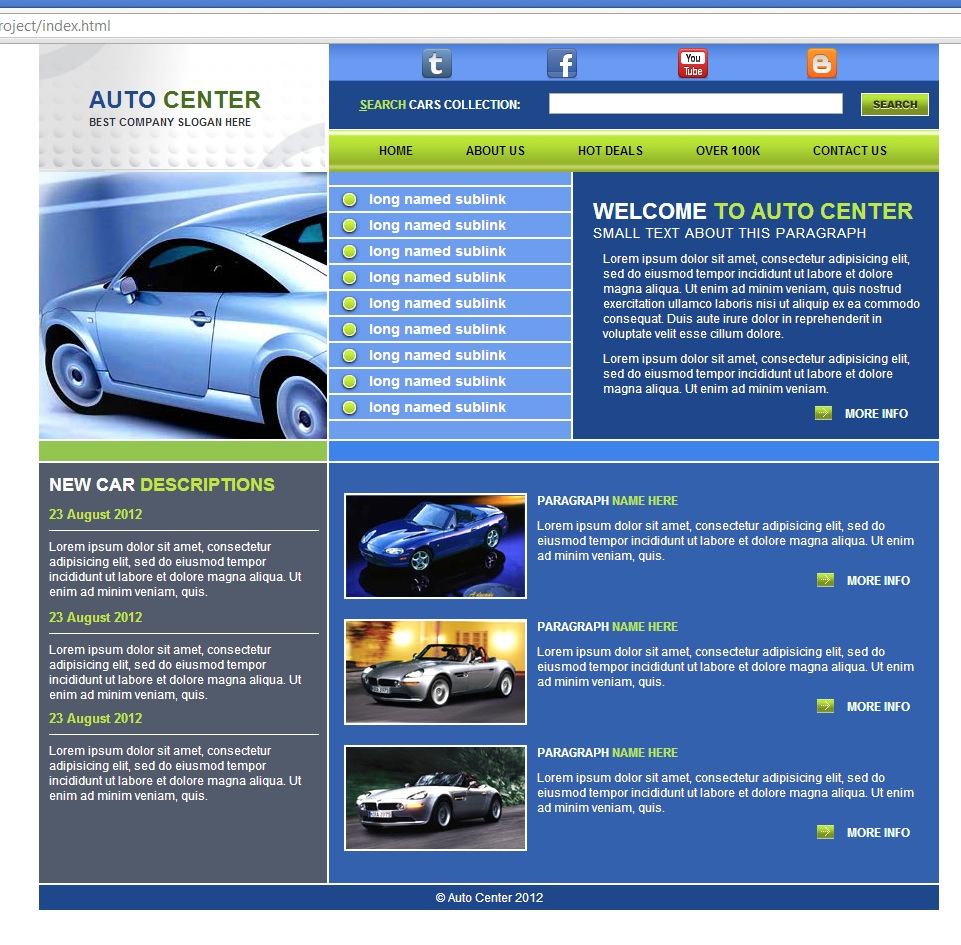
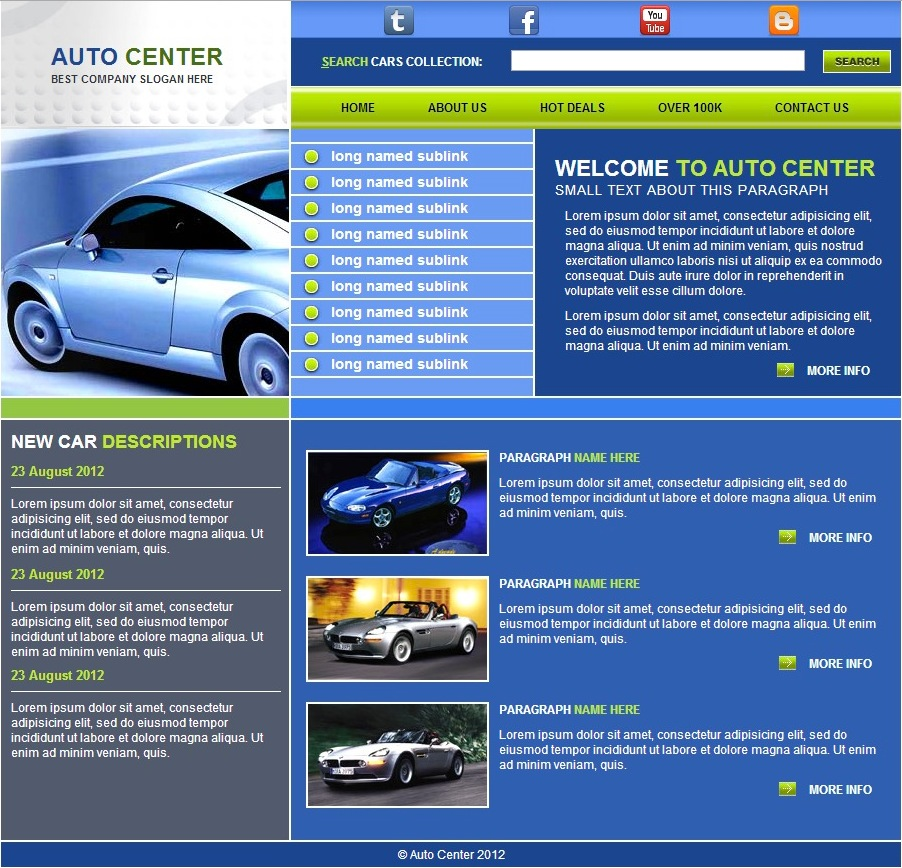
added final

diff --git a/projects/cmrockwell-final/css/main.css b/projects/cmrockwell-final/css/main.css
@@ -6,52 +6,66 @@ a{text-decoration:none;}
 
 /* wrapper */
 #wrapper{position: relative; margin: 0 auto; width: 900px; background-color: #FFF; }
+#over {position: absolute; top: 0; left: 0; opacity: 0.5; width: 900px; z-index: 10; visibility: hidden; }
 
 /* header background: #fff url(image.gif) no-repeat top left*/
 #header{ height: 126px; text-transform:uppercase; position: relative; }
 #logo_div { height: 126px; width: 289px; background: #fff url('../images/upper-white.jpg') no-repeat top left; position:absolute; left:0; top:0; }
 #header-right {position:absolute; top:0; right:0; width: 611px; }
-#logo_div h1 { color:#00C6FF; margin: 40px 40px 8px 40px; font-size: 2em;}
-#logo_div h1 span { color:#00C6FF; }
-#logo_div p { margin-left: 40px; }
+#logo_div h1 { color: #214990; margin: 50px 40px 6px 51px; font-size: 2em;}
+#logo_div h1 span { color: #49701B; }
+#logo_div p { margin-left: 51px;  letter-spacing: -1px;}
 #social-links { height: 36px; background-color: #6C9DEf; position: relative; background-repeat: no-repeat; }
 .icon {background-image: url('../images/iconpack.png'); height: 34px; width: 34px; position:absolute; border: none; }
 #twitter {background-position: -341px -172px; left: 92px}
 #facebook {background-position: -501px -13px; left: 218px;}
-#youtube {background-position: -182px -115px; left: 352px;}
-#blogger {background-position: -11px -62px; left: 486px; }
+#youtube {background-position: -182px -115px; left: 350px;}
+#blogger {background-position: -11px -62px; left: 478px; }
 
-#search {height: 47px; background-color: #1F478C; line-height: 47px; padding-left: 26px; }
+#search {height: 50px; background-color: #1F478C; line-height: 50px; padding-left: 30px; letter-spacing: -1px; }
 .underline {text-decoration:underline; }
 .white {color: white; }
-#search label {color: #C0E741; margin-right: 24px; font-weight: bold; }
-#search input.text {width: 292px; margin-top: 12px;}
+#search label {color: #C0E741; margin-right: 32px; font-weight: bold; vertical-align: top;}
+#search input.text {width: 292px; margin-top: 12px; padding-top: 0;}
 #search input#searchBtn { background: #fff url('../images/search.jpg') no-repeat top left; width: 69px; height: 24px; 
-							border: solid #1F478C 1px; background-position: 0px 0px; padding-top: 2px; margin-left: 10px}
+							border: solid #1F478C 1px; background-position: 0px 0px; padding-top: 2px; margin-left: 14px}
 
-#nav{  background: #fff url('../images/nav2.jpg') repeat-x top left; text-align: center; border: none; overflow: auto;}
+#nav{  background: #fff url('../images/nav2.jpg') repeat-x top left; text-align: center; border: none; overflow: hidden;
+		 width: 608px; margin-left: 2px; }
 #nav li{float:left; list-style:none;}
-#nav li a, #nav li span {font-size:1.1em; line-height: 43px; color: #fff; width: 110px; display:block; font-weight: bold;} 
+#nav li a, #nav li span {font-size:1.0em; line-height: 41px; margin-left: 50px; color: #000; display:block; font-weight: bold;} 
 #nav li a:hover{text-decoration:underline; }
 
 
-#content { height: 706px; }
+#content { height: 713px; }
 #middle { height: 267px; width: 289px; position: relative; }
 #middle #car { height: 267px; width: 289px;  background: #fff url('../images/car.jpg') no-repeat top left; border: solid white 1px;}
-#middle #sublinks {  height: 267px; width: 240px; position:absolute; top:0; left: 289px; background-color: #6C9DEf; }
-#sublinks ul { position: absolute; top: 12px; width: 100%; }
-#sublinks li { 	border: solid white 1px; background-image: url('../images/dot1.jpg'); 
-				background-repeat:no-repeat; background-position: 8px 5px; padding-left: 30px; 
-				list-style-position: inside; list-style: none; height: 25px; line-height: 25px; }
-#middle #welcome {  height: 267px; width: 370px; position:absolute; top:0; left: 529px; background-color: #1F478C; color: #fff; }
+#middle #sublinks {  height: 267px; width: 242px; position:absolute; top:0; left: 289px; background-color: #6C9DEf;
+						border: solid white 2px; }
+#sublinks ul { position: absolute; top: 12px; width: 100%; border-bottom: solid white 2px;}
+#sublinks li { 	border-top: solid white 2px;
+				background-image: url('../images/dot1.jpg'); 
+				background-repeat:no-repeat; background-position: 12px 7px; padding-left: 41px; 
+				list-style-position: inside; list-style: none; height: 25px; line-height: 25px; font-size: 1.2em; }
+#sublinks a { color: #fff; font-weight: bold; }				
+#middle #welcome {  height: 268px; width: 364px; position:absolute; top:0; left: 535px; background-color: #1F478C; color: #fff; }
+#welcome h2 { font-weight: bold; margin: 35px 0 0 20px;  text-transform:uppercase; text-transform: uppercase; font-size: 1.8em; }
+#welcome h2 span { color: #C0E741;  }
+#welcome h3 { text-transform: uppercase; margin: 7px 0 0 19px; }
+#welcome p { margin: 10px 29px;  }
 
 #lower {position: relative; }
-#left_barrier { position: absolute; left: 0; top:0; width: 289px; border: solid white 1px; background-color: #C0E741; height: 18px; }
-#right_barrier { position: absolute; left: 289px; top:0; width: 609px; border: solid white 1px; background-color: #3E83EB; height: 18px; }
-#car_desc { position: absolute; left:0; top: 18px; width: 289px; height: 419px; background-color: #303439; }
-#car_content { position: absolute; left: 289px; top: 18px; width: 609px; height: 419px; background-color: #3561AE; }
-
-#footer { background-color: #1F478C; height: 24px; line-height: 24px; text-align: center; color: white;  }
+#left_barrier { position: absolute; margin-top: 4px; width: 288px; border-bottom: solid white 2px; background-color: #C0E741; height: 20px; }
+#right_barrier { position: absolute; left: 290px; margin-top: 3px; width: 608px; border: solid white 1px; background-color: #3E83EB; height: 21px; }
+#car_desc { position: absolute; left:0; top: 27px; width: 289px; height: 420px; background-color: #303439; border-bottom: solid white 2px; }
+#car_desc h3 { color: #fff; margin: 14px 10px 10px 12px; font-size: 1.5em;}
+#car_desc h3 span { color: #C0E741;}
+#car_desc h4 {color: #C0E741; margin: 14px 9px -10px 10px; font-size: 1.1em; border-bottom: solid white 1px; padding-bottom: 8px; }
+#car_desc p { color: #fff; font-size: 1.0em; margin: 17px 12px -5px 12px;}
+#car_content { position: absolute; left: 289px; top: 25px; width: 608px; height: 420px; background-color: #3561AE; 
+				border: solid white 2px; }
+#footer { background-color: #1F478C; height: 24px; line-height: 24px; text-align: center; color: white; border: solid white 2px; 
+			border-left: none;}
 /* colors
  * 	
 c-#000 black

diff --git a/projects/cmrockwell-final/index.html b/projects/cmrockwell-final/index.html
@@ -8,6 +8,7 @@
 <body>
 	
 	<div id="wrapper">
+		<img src="images/fp-chrome-pc.jpg" id="over">
         <div id="header">
         	<div id="logo_div"> 
         		<h1>Auto <span>Center</span> </h1>
@@ -74,10 +75,10 @@
 					<h3>NEW CAR <span>DESCRIPTIONS</span></h3>
 					<h4 class="date">23 August 2012 </h4>
 					<p>Lorem ipsum dolor sit amet, consectetur adipisicing elit, sed do eiusmod tempor incididunt ut labore et dolore magna aliqua. Ut enim ad minim veniam, quis.</p>
-					<h3>NEW CAR <span>DESCRIPTIONS</span></h3>
+					
 					<h4 class="date">23 August 2012 </h4>
 					<p>Lorem ipsum dolor sit amet, consectetur adipisicing elit, sed do eiusmod tempor incididunt ut labore et dolore magna aliqua. Ut enim ad minim veniam, quis.</p>
-					<h3>NEW CAR <span>DESCRIPTIONS</span></h3>
+					
 					<h4 class="date">23 August 2012 </h4>
 					<p>Lorem ipsum dolor sit amet, consectetur adipisicing elit, sed do eiusmod tempor incididunt ut labore et dolore magna aliqua. Ut enim ad minim veniam, quis.</p>
 				</div>
